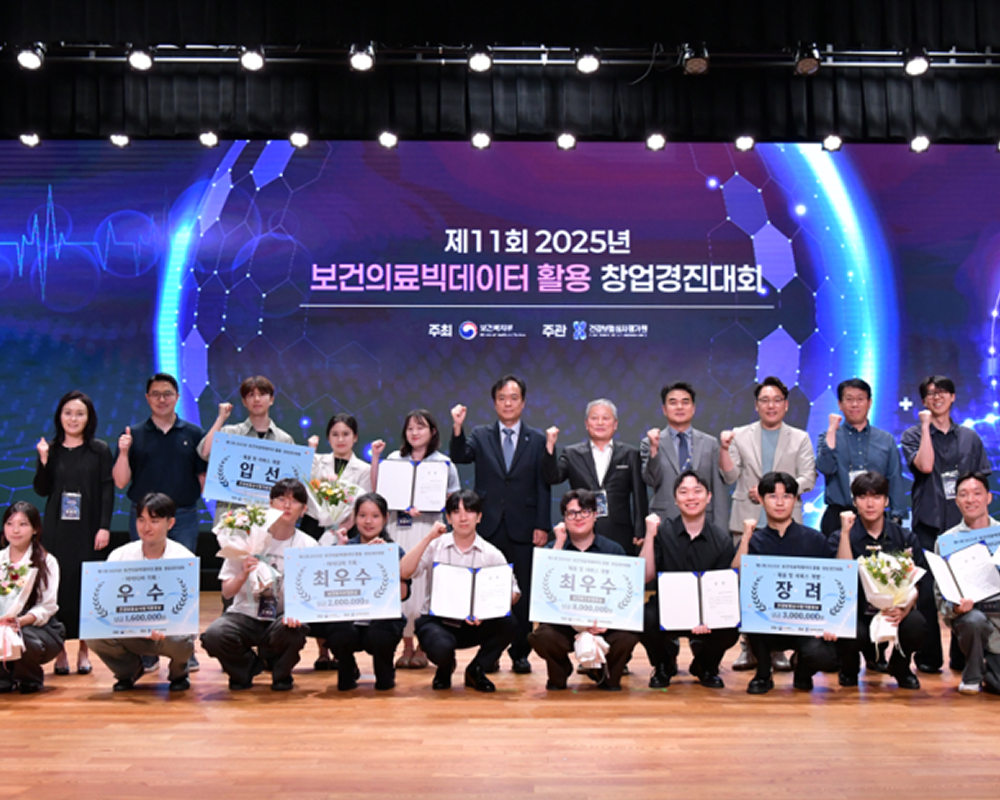
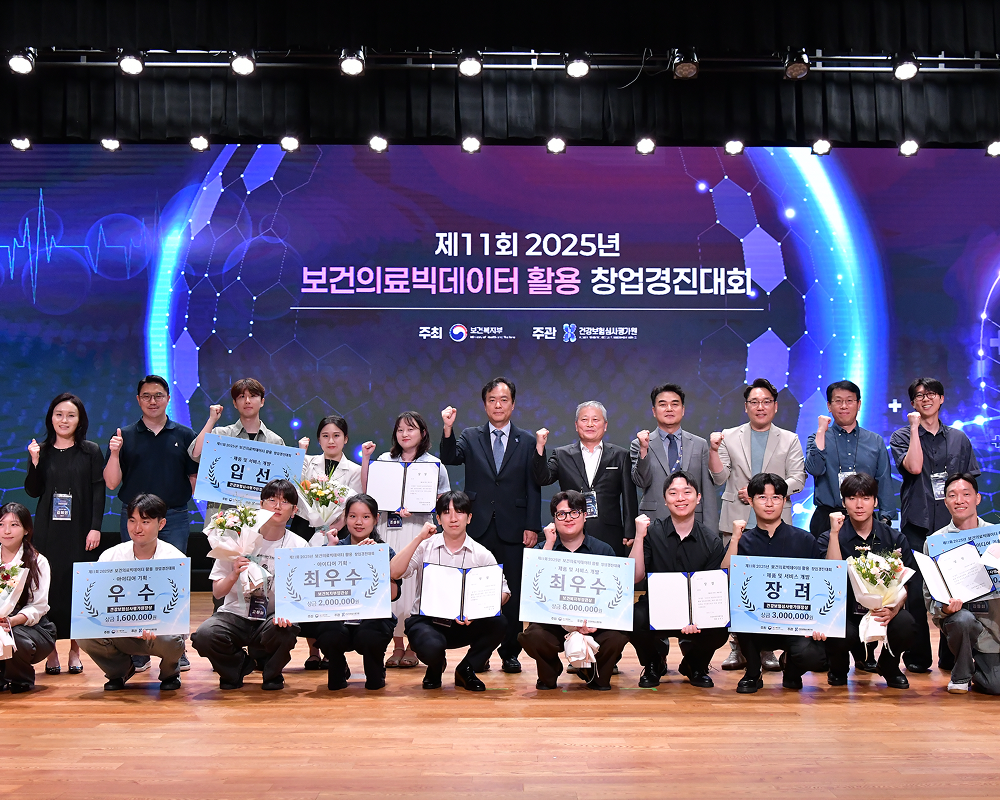
Feat: index.html 이미지 변경

diff --git a/index.html b/index.html
@@ -165,9 +165,9 @@
                         <div class="timeline-panel">
                             <div class="timeline-heading">
                                 <h4>2025.7</h4>
-                                <h4 class="subheading">(주)네로 법인설립</h4>
+                                <h4 class="subheading">법인설립</h4>
                             </div>
-                            <div class="timeline-body"><p class="text-muted">법인설립절차 완료</p></div>
+                            <div class="timeline-body"><p class="text-muted">주식회사 네로 (Nero Inc.)</p></div>
                         </div>
                     </li>
                     <li class="timeline-inverted">
@@ -504,7 +504,7 @@
                     <div class="modal-body">
                         <p class="text-muted mb-3">벤처기업협회 주관 소셜벤처 분야</p>
                         <div class="text-center mb-4">
-                            <img class="img-fluid" src="assets/img/portfolio/2.png" alt="예비창업패키지 선정 증서" style="max-width: 100%; height: auto;" />
+                            <img class="img-fluid" src="assets/img/portfolio/2-1.png" alt="예비창업패키지 선정 증서" style="max-width: 100%; height: auto;" />
                         </div>
                         <p>2025년 5월 벤처기업협회 주관 소셜벤처 분야 예비창업패키지 기업으로 선정</p>
                         <p>• 시제품 제작, 지재권 취득, 사업모델 (BM) 개선, 마케팅 등에 소요되는 사업화 자원 평균 5000만원 지원</p>
@@ -540,7 +540,7 @@
                     <div class="modal-body">
                         <p class="text-muted mb-3">제품&서비스분야 건강보험심사평가원장상</p>
                         <div class="text-center mb-4">
-                            <img class="img-fluid" src="assets/img/portfolio/3.png" alt="보건의료빅데이터 활용 창업경진대회 수상" style="max-width: 100%; height: auto;" />
+                            <img class="img-fluid" src="assets/img/portfolio/3-1.png" alt="보건의료빅데이터 활용 창업경진대회 수상" style="max-width: 100%; height: auto;" />
                         </div>
                         <p>총 122개 팀이 참가한 2025년 보건의료빅데이터 활용 창업경진대회에서 네로는 제품&서비스 분야 건강보험심사평가원장상을 수상했다.</p>
                         <p>보건복지부가 주최하고 심평원이 주관하는 이번 대회는 공공데이터 활용 관련 평가 항목을 전 심사 과정에 도입해 데이터 활용성이 뛰어난 작품을 수상작으로 선정했다. </p>
